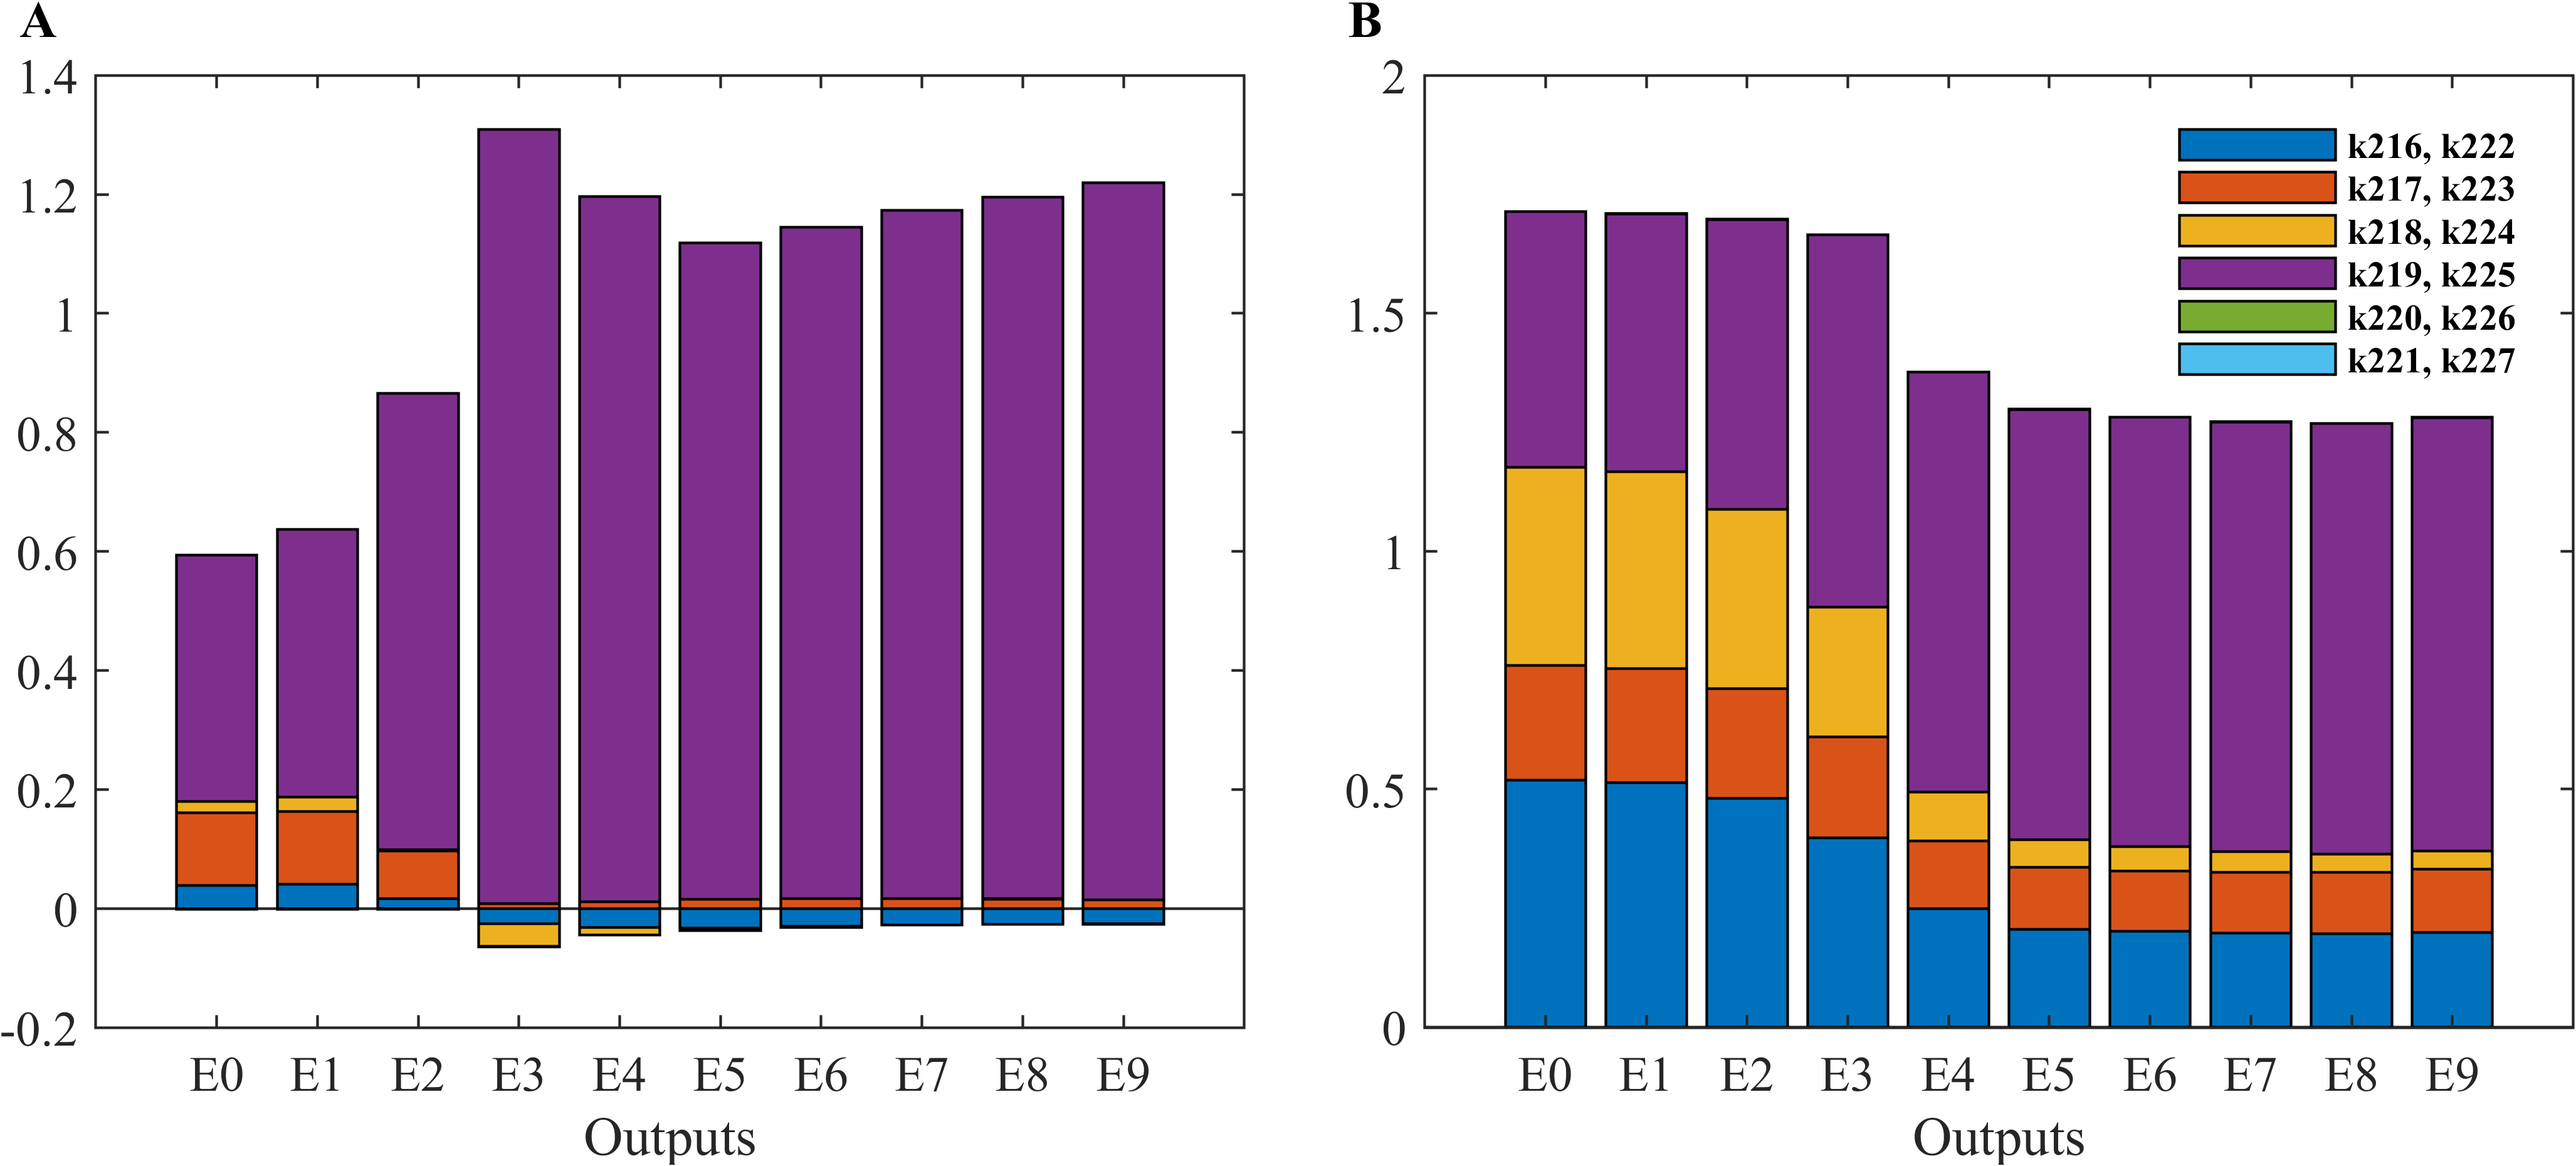
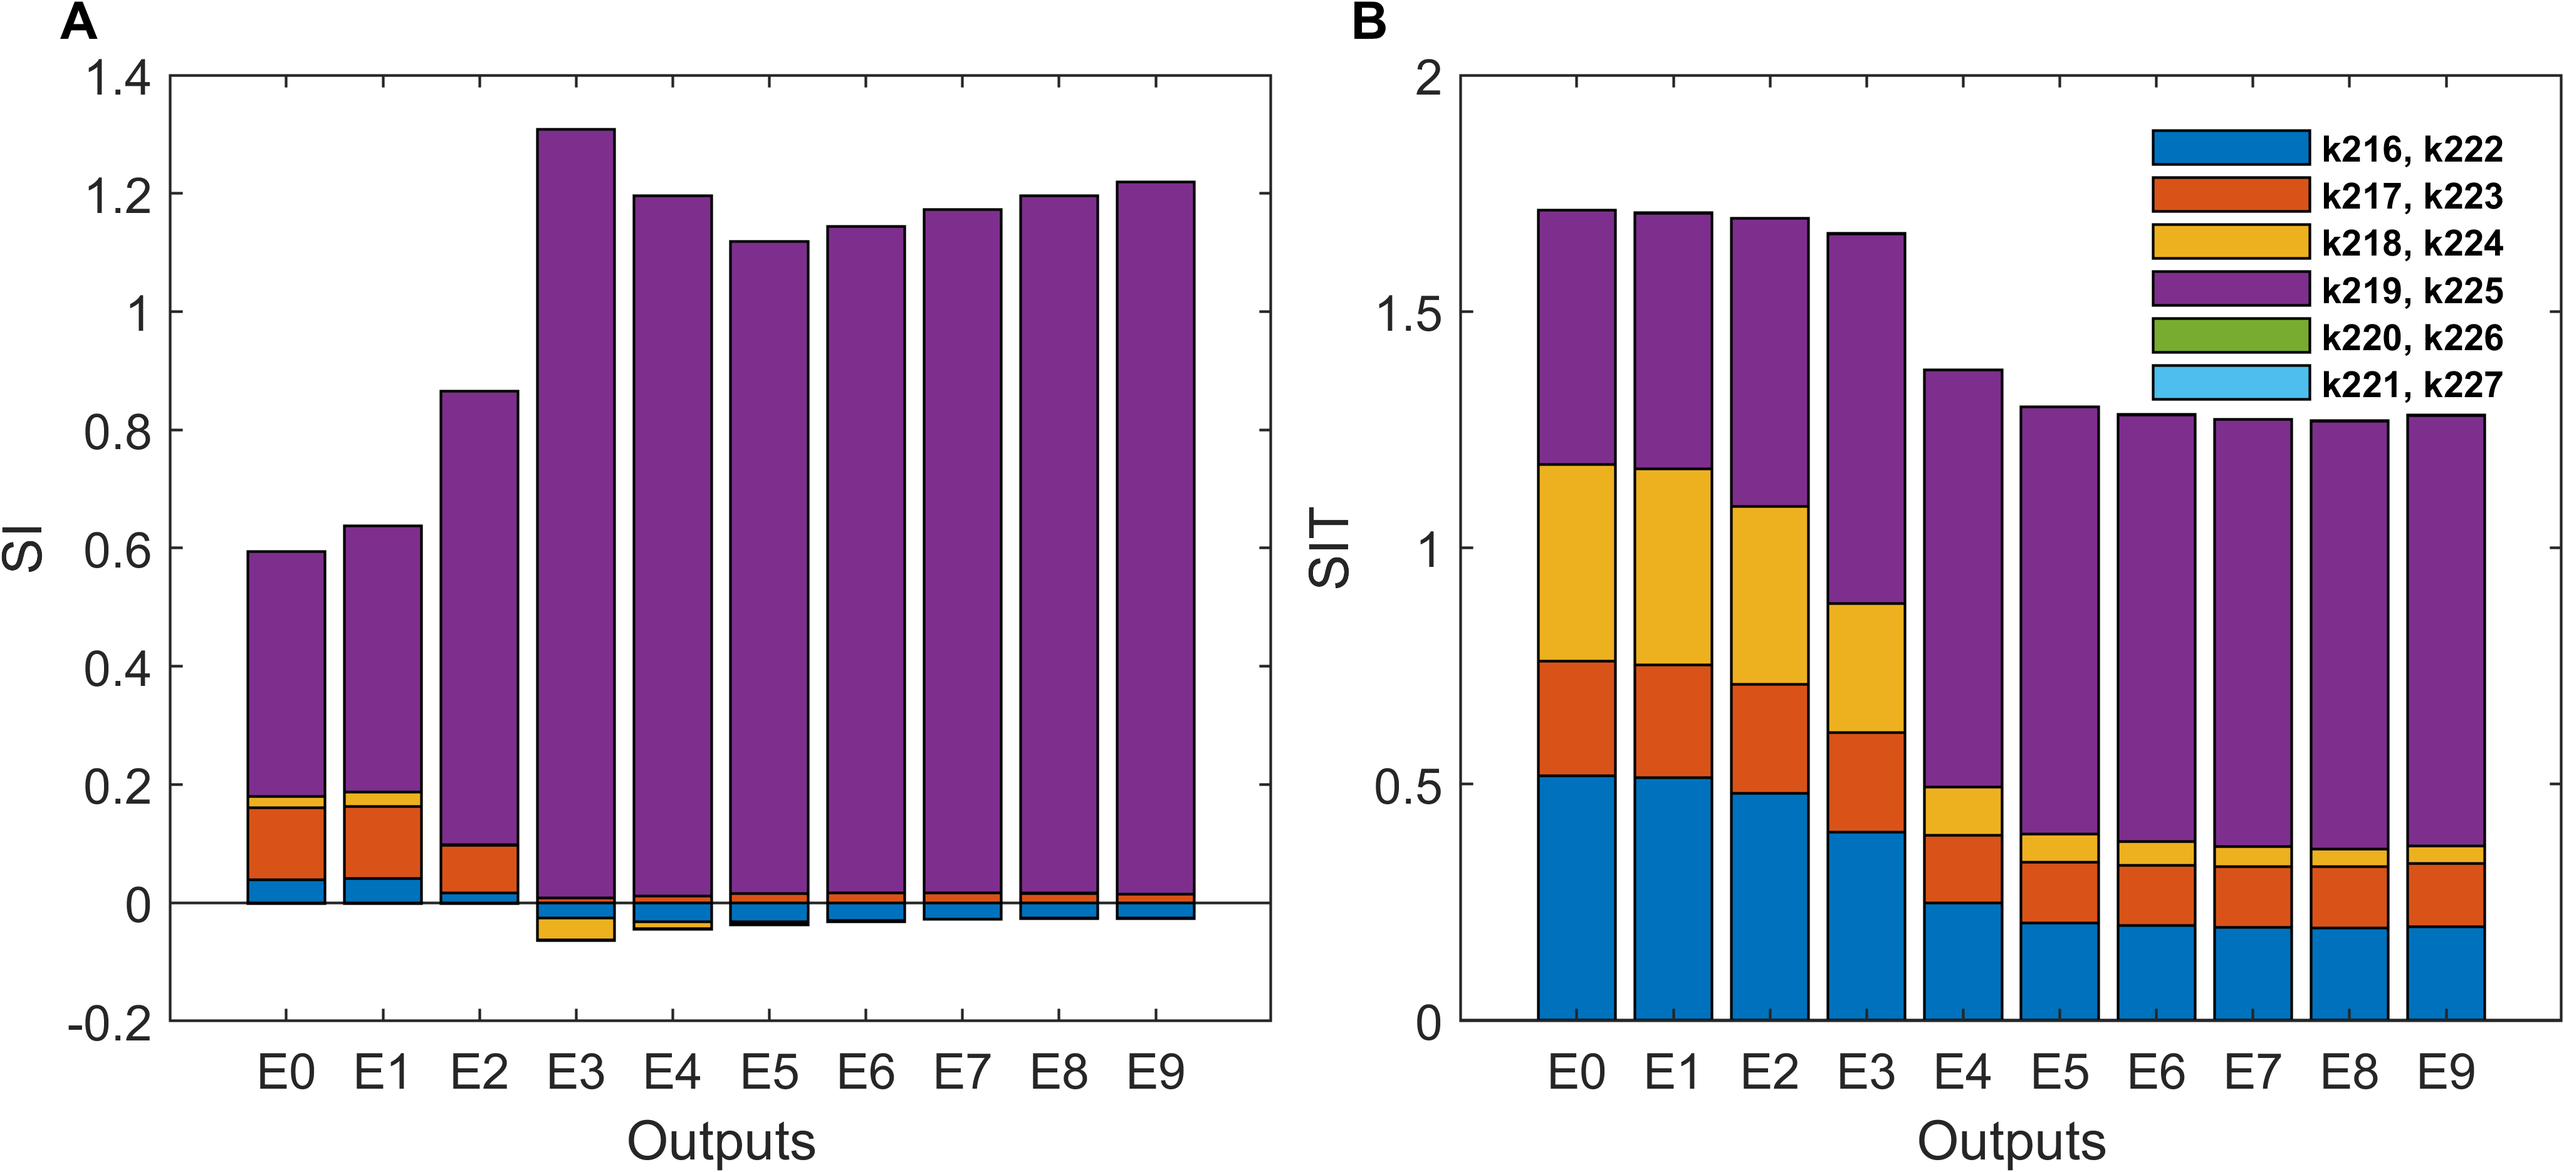
added axis description to figure 4

diff --git a/Matlab/Reproduce paper figure 4 new/Reproduce_fig4_new.m b/Matlab/Reproduce paper figure 4 new/Reproduce_fig4_new.m
@@ -18,8 +18,9 @@ bar(rst.SA.SI.se,'stacked')
 
 xticklabels({'E0','E1','E2','E3','E4','E5','E6','E7','E8','E9'})
 xlabel('Outputs')
+ylabel('SI')
 
-text(min(xlim)-(max(xlim)-min(xlim))*2/30,...
+text(min(xlim)-(max(xlim)-min(xlim))*3/30,...
     max(ylim)+(max(ylim)-min(ylim))*0.3/5,...
     'A','fontsize',10,'FontWeight','bold');
 
@@ -33,8 +34,9 @@ legend boxoff
 
 xticklabels({'E0','E1','E2','E3','E4','E5','E6','E7','E8','E9'})
 xlabel('Outputs')
+ylabel('SIT')
 
-text(min(xlim)-(max(xlim)-min(xlim))*2/30,...
+text(min(xlim)-(max(xlim)-min(xlim))*3/30,...
     max(ylim)+(max(ylim)-min(ylim))*0.3/5,...
     'B','fontsize',10,'FontWeight','bold');
 
